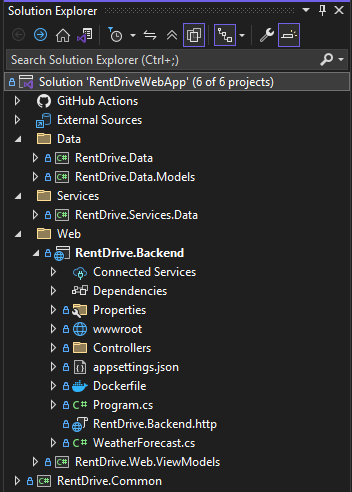
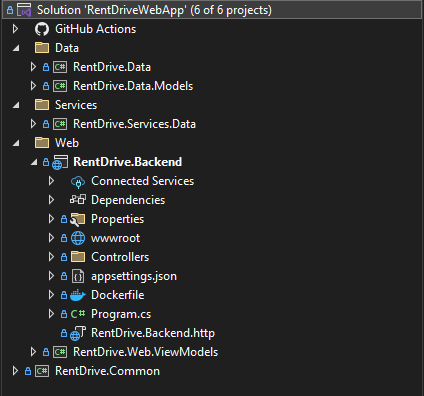
Update README.md. Update README.md images. Remove WeatherForcast and WeatherForecastController.

Changed region(s): [[0.0, 0.0, 1.0, 1.0], [0.0312, 0.4545, 0.0625, 0.4848]]

diff --git a/README.md b/README.md
@@ -39,7 +39,7 @@ The entire application is fully Dockerized and deployed on a Raspberry Pi 4B usi
 - **Bookings** – Full-day rentals with status tracking (Active, Canceled, Completed).  
 
 ### 🚧 In Progress / Upcoming
-- **Search & Filtering:** Filter vehicles by type, category, price, availability, etc.  
+- **Search** – Quickly find vehicles by keyword (make, model, etc.).  
 - **Pickup & Return Logistics:** Manage rental logistics for real-world usage.  
 - **Notifications:** Inform users about booking confirmations, cancellations, etc.  
 - **Roles & Permissions:** Differentiate between managers, admins, and normal users.  
@@ -72,18 +72,17 @@ cd RentDriveWebApp
 docker-compose up --build -d
 ```
 
-Option B: Run Client Locally
+Option B: Run Client + Server Locally
 ```bash
-cd RentDrive.Frontend
-npm i
-npm run dev
-```
-
-Option C: Run Server Locally
-```bash
+# Run Backend
 cd RentDrive.Backend
 dotnet restore
 dotnet run
+
+# In a separate terminal, run Frontend
+cd RentDrive.Frontend
+npm install
+npm run dev
 ```
 
 ---
@@ -208,8 +207,6 @@ The frontend is built in **React v19** with static CSS. Components and logic are
 <p align="center">
   <img src="README/images/frontend_hooks_vehicle.png" alt="Hooks Structure" width="300"/>
 </p>
-
----
 
 ---
 
